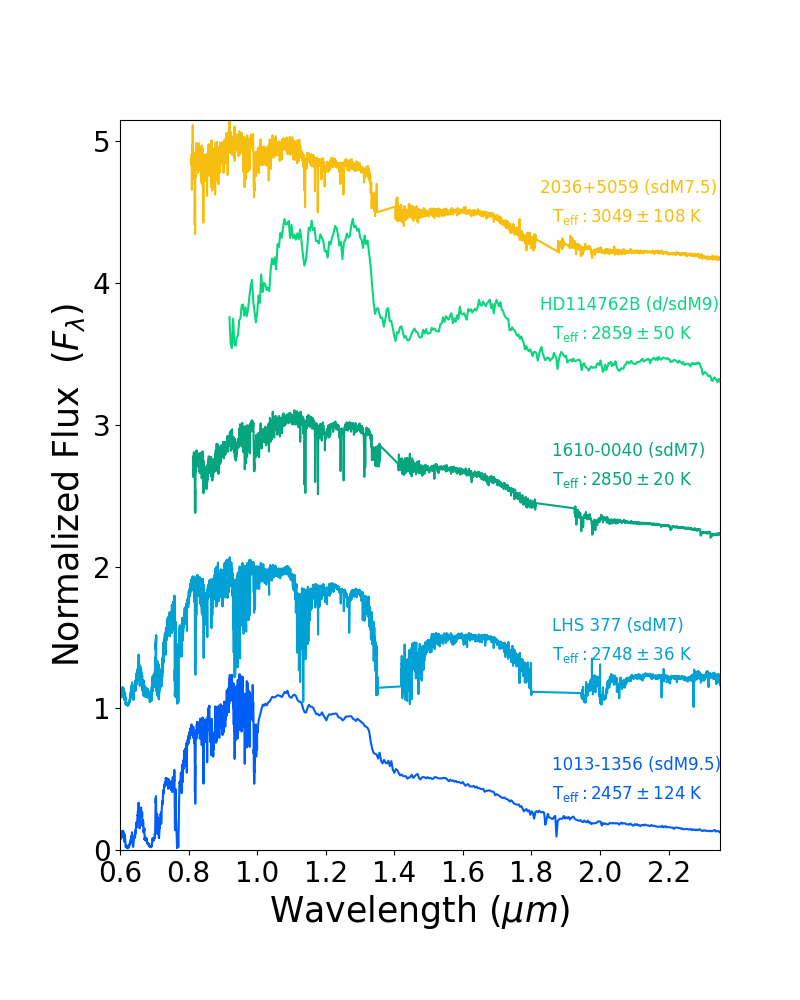
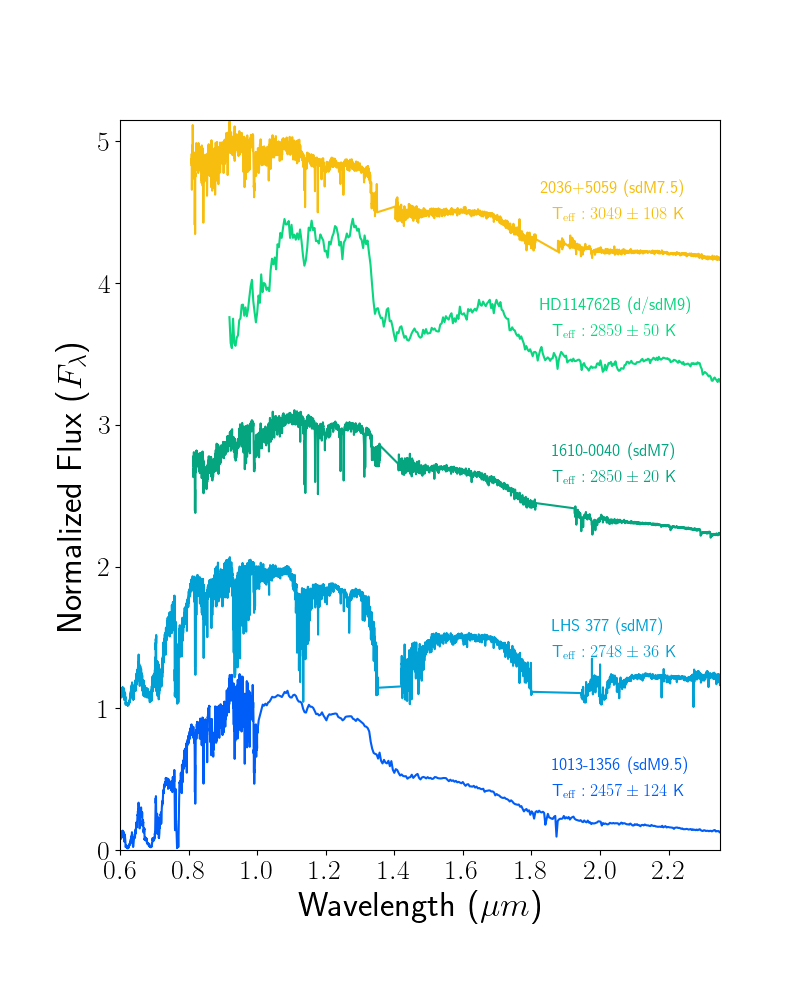
removed overlap in pannel 2

diff --git a/FullspectraSubdwarfs.py b/FullspectraSubdwarfs.py
@@ -80,7 +80,7 @@ ax1 = fig.add_subplot(111)
 fig.set_size_inches(8, 10)  # to make sure proper size run entire code at once and change 8 to 6.45 to
 plt.gcf().subplots_adjust(bottom=0.15, left=0.15)
 plt.xlim([0.6, 2.35])
-plt.ylim([0, 5.15])
+plt.ylim([0, 6.15])
 
 # ------ Axes Labels --------
 plt.xticks(fontsize=20)
@@ -90,10 +90,10 @@ plt.ylabel('Normalized Flux  ($F_\lambda$)', fontsize=25)
 
 # -------- Add data -----------
 ax1.plot(df_0532['w'], norm_df_0532, c='indigo')                                # sdL7 1647
-ax1.plot(df_0616['w'], norm_df_0616 + 1, c='darkviolet')                        # sdL5 ???
-ax1.plot(df_1626['w'], norm_df_1626 + 2, c='#531CF7')                         # sdL4 2158
-ax1.plot(df_1444['w'], norm_df_1444 + 3, c='mediumblue')                        # sdM9 2303
-ax1.plot(df_1256['w'], norm_df_1256 + 4, c='k')                                 # sdL3.5  2338
+ax1.plot(df_0616['w'], norm_df_0616 + 2, c='darkviolet')                        # sdL5 ???
+ax1.plot(df_1626['w'], norm_df_1626 + 3, c='#531CF7')                         # sdL4 2158
+ax1.plot(df_1444['w'], norm_df_1444 + 4, c='mediumblue')                        # sdM9 2303
+ax1.plot(df_1256['w'], norm_df_1256 + 5, c='k')                                 # sdL3.5  2338
 # ax1.plot(df_1013['w'], norm_df_1013 + 5, c='#015DF7')                         # sdM9.5 2457
 # ax1.plot(df_LHS['w'], norm_df_LHS + 6, c='#01A1D6')                           # sdM7 2748
 # # ax1.plot(df_1425['w'], norm_df_1425, c='#09D5D6')                             # sdM8 2823      only MIR spectra
@@ -104,16 +104,16 @@ ax1.plot(df_1256['w'], norm_df_1256 + 4, c='k')                                 
 
 # ------- Label Sources -------------
 # not alot of space to label
-ax1.text(0.73, 0.14, '0532+8246 (sdL7)', transform=ax1.transAxes, color='indigo', fontsize=12)
-ax1.text(0.73, 0.1, 'T$_\mathrm{eff}: 1647 \pm 42$ K ', transform=ax1.transAxes, color='indigo',fontsize=12)
-ax1.text(0.73, 0.28, '0616-6407 (sdL5)', transform=ax1.transAxes, color='darkviolet', fontsize=12)
-ax1.text(0.73, 0.24, 'T$_\mathrm{eff}: 1668 \pm 284$ K ', transform=ax1.transAxes, color='darkviolet',fontsize=12)
-ax1.text(0.73, 0.48, '1626+3925 (sdL4)', transform=ax1.transAxes, color='#531CF7', fontsize=12)
-ax1.text(0.73, 0.44, 'T$_\mathrm{eff}: 2158 \pm 41$ K', transform=ax1.transAxes, color='#531CF7', fontsize=12)
-ax1.text(0.73, 0.7, '1444-2019 (sdM9)', transform=ax1.transAxes, color='mediumblue', fontsize=12)
-ax1.text(0.73, 0.66, 'T$_\mathrm{eff}: 2303 \pm 67$ K', transform=ax1.transAxes, color='mediumblue', fontsize=12)
-ax1.text(0.73, 0.85, '1256-0224 (sdL3.5)', transform=ax1.transAxes, color='k', fontsize=12)
-ax1.text(0.73, 0.81, 'T$_\mathrm{eff}: 2344 \pm 314$ K', transform=ax1.transAxes, color='k', fontsize=12)
+ax1.text(0.73, 0.12, '0532+8246 (sdL7)', transform=ax1.transAxes, color='indigo', fontsize=12)
+ax1.text(0.73, 0.08, 'T$_\mathrm{eff}: 1647 \pm 42$ K ', transform=ax1.transAxes, color='indigo',fontsize=12)
+ax1.text(0.73, 0.4, '0616-6407 (sdL5)', transform=ax1.transAxes, color='darkviolet', fontsize=12)
+ax1.text(0.73, 0.36, 'T$_\mathrm{eff}: 1668 \pm 284$ K ', transform=ax1.transAxes, color='darkviolet',fontsize=12)
+ax1.text(0.73, 0.56, '1626+3925 (sdL4)', transform=ax1.transAxes, color='#531CF7', fontsize=12)
+ax1.text(0.73, 0.52, 'T$_\mathrm{eff}: 2158 \pm 41$ K', transform=ax1.transAxes, color='#531CF7', fontsize=12)
+ax1.text(0.73, 0.75, '1444-2019 (sdM9)', transform=ax1.transAxes, color='mediumblue', fontsize=12)
+ax1.text(0.73, 0.71, 'T$_\mathrm{eff}: 2303 \pm 67$ K', transform=ax1.transAxes, color='mediumblue', fontsize=12)
+ax1.text(0.73, 0.89, '1256-0224 (sdL3.5)', transform=ax1.transAxes, color='k', fontsize=12)
+ax1.text(0.73, 0.85, 'T$_\mathrm{eff}: 2344 \pm 314$ K', transform=ax1.transAxes, color='k', fontsize=12)
 
 plt.savefig('Plots/Subdwarfs_secondpannel.png')
 
